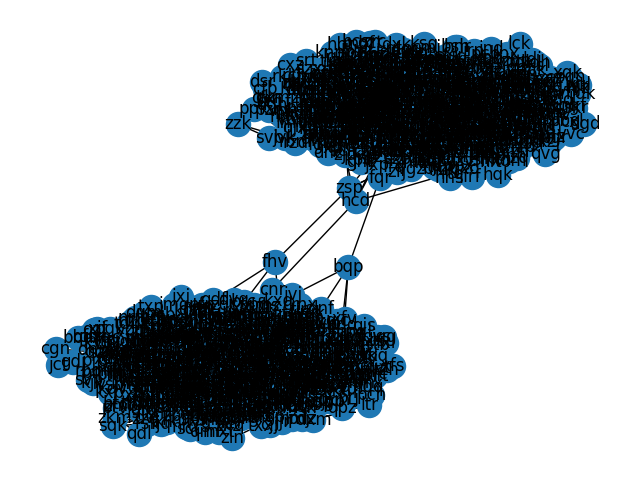
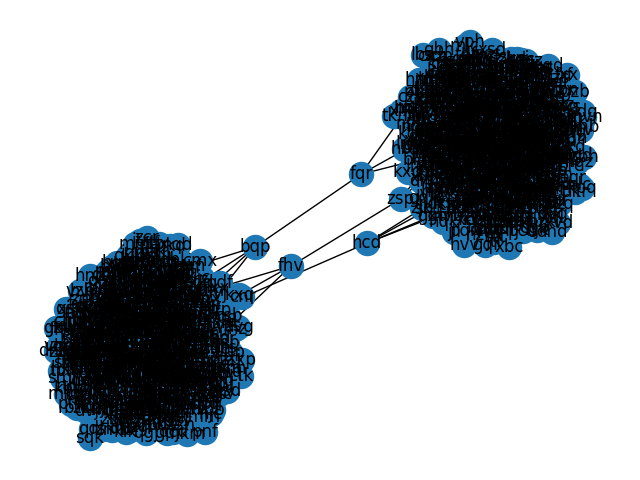
heuristic, non viz solution

Changed region(s): [[0.0625, 0.0625, 0.9375, 0.9375]]

diff --git a/2023/25/solution.py b/2023/25/solution.py
@@ -1,10 +1,12 @@
 from collections import defaultdict, Counter
 import re
-from itertools import chain
+from itertools import chain, pairwise
 import networkx as nx
 import matplotlib.pyplot as plt
+import random
 
 Graph = defaultdict[str, set[str]]
+
 
 def load(filename: str) -> Graph:
     d = defaultdict(set)
@@ -19,8 +21,6 @@ def load(filename: str) -> Graph:
 
 test = load('test.txt')
 graph = load('input.txt')
-print(*test.items(), sep='\n')
-print(Counter(chain.from_iterable(test.values())))
 nx.draw(nx.Graph(graph), with_labels=True)
 plt.savefig('graph.png')
 
@@ -36,14 +36,64 @@ def count_connected(graph: Graph, node: str) -> int:
 
 def cut_graph(graph: Graph, edge: tuple[str, str]) -> graph:
     node_a, node_b = edge
-    graph[node_a].discard(node_b)
-    graph[node_b].discard(node_a)
-    return graph
+
+    def to_del(node: str) -> set[str]:
+        if node == node_a:
+            return {node_b}
+        elif node == node_b:
+            return {node_a}
+        else:
+            return set()
+
+    return {
+        k: v - to_del(k)
+        for k, v in graph.items()
+    }
 
 
-graph = cut_graph(graph, ('zsp', 'fhv'))
-graph = cut_graph(graph, ('hcd', 'cnr'))
-graph = cut_graph(graph, ('fqr', 'bqp'))
+graph_sol = cut_graph(graph, ('zsp', 'fhv'))
+graph_sol = cut_graph(graph_sol, ('hcd', 'cnr'))
+graph_sol = cut_graph(graph_sol, ('fqr', 'bqp'))
 print(
-    count_connected(graph, 'zsp') * count_connected(graph, 'fhv')
+    count_connected(graph_sol, 'zsp') * count_connected(graph_sol, 'fhv')
+)
+
+
+def random_walk(graph: Graph, node: str) -> int:
+    path = [node]
+    while True:
+        try:
+            node = random.choice([v for v in graph[node] if v not in path])
+            path.append(node)
+        except IndexError:
+            return path
+
+
+nodes = graph.keys()
+
+random.seed(0)
+c = Counter()
+paths_many_nodes = filter(
+    lambda x: len(x) > (0.3*len(nodes)),
+    (
+        random_walk(graph, n)
+        for n in nodes
+    )
+)
+c.update(
+    map(
+        lambda x: tuple(sorted(x)),
+        chain.from_iterable(map(pairwise, paths_many_nodes))
+    )
+)
+
+candidates, _ = zip(*sorted(c.items(), key=lambda x: x[1], reverse=True)[:10])
+edge1, edge2, edge3 = candidates[:3]
+
+graph_sol = cut_graph(graph, edge1)
+graph_sol = cut_graph(graph_sol, edge2)
+graph_sol = cut_graph(graph_sol, edge3)
+
+print(
+    count_connected(graph_sol, 'zsp') * count_connected(graph_sol, 'fhv')
 )
